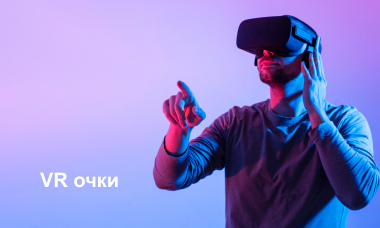
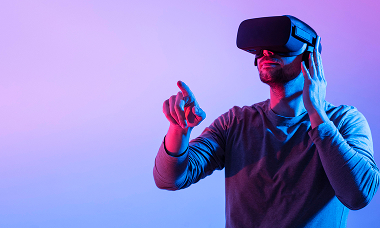
create service section

diff --git a/index.html b/index.html
@@ -61,27 +61,25 @@
         </div>
       </section>
       <section class="service">
-        <div class="container">
+        <div class="service__container">
           <h2 class="service__title">У нас есть всё для классного отдыха с друзьями!</h2>
           <ul class="service__list">
-            <li class="service__item">
-              <img class="service__item-img" src="/img/vr.jpg" width="380" height="228" alt="Vr-очки.">
+            <li class="service__item service__item-vr">
               <p class="service__item-text">VR очки</p>
             </li>
-            <li class="service__item">
-              <img class="service__item-img" src="/img/audio.jpg" width="380" height="228" alt="Аудио-система 5.1.">
+            <li class="service__item service__item-audio">
               <p class="service__item-text">Аудио-система 5.1 с отличным звуком</p>
             </li>
-            <li class="service__item">
-              <img class="service__item-img" src="/img/micro.jpg" width="380" height="228" alt="Караоке(4 микрофона).">
+            <li class="service__item service__item-karaoke">
               <p class="service__item-text">Караоке(4 микрофона)</p>
             </li>
-            <li class="service__item">
-              <img class="service__item-img" src="/img/netflix.jpg" width="380" height="228" alt="Кино-сервисы: Netflix, IVI, MegoGo, КиноПоиск, Okko.">
+            <li class="service__item service__item-games">
+              <p class="service__item-text">Настольные игры</p>
+            </li>
+            <li class="service__item service__item-films">
               <p class="service__item-text">Кино-сервисы: Netflix, IVI, MegoGo, КиноПоиск, Okko</p>
             </li>
-            <li class="service__item">
-              <img class="service__item-img" src="/img/sony.jpg" width="380" height="228" alt="Playstation.">
+            <li class="service__item service__item-playstation">
               <p class="service__item-text">Playstation 5</p>
             </li>
           </ul>

diff --git a/css/service.css b/css/service.css
@@ -1,0 +1,68 @@
+.service__container {
+  margin: 0 auto;
+  max-width: 1180px;
+}
+
+.service__title {
+  margin: 0 auto;
+  max-width: 880px;
+  font-weight: 700;
+  text-transform: uppercase;
+  font-size: 40px;
+  line-height: 50px;
+  text-align: center;
+  margin-bottom: 41px;
+}
+
+.service__list {
+  display: flex;
+  flex-direction: row;
+  flex-wrap: wrap;
+  justify-content: space-around;
+  gap: 20px;
+  max-height: 800px;
+}
+
+.service__item-vr {
+  background-image: url("../img/vr.jpg");
+}
+
+.service__item-games {
+  background-image: url("../img/games.jpg");
+}
+
+.service__item-audio {
+  background-image: url("../img/audio.jpg");
+}
+
+.service__item-karaoke {
+  background-image: url("../img/micro.jpg");
+}
+
+.service__item-films {
+  background-image: url("../img/netflix.jpg");
+}
+
+.service__item-playstation {
+  background-image: url("../img/sony.jpg");
+}
+
+.service__item-vr,
+.service__item-games,
+.service__item-audio,
+.service__item-karaoke,
+.service__item-films,
+.service__item-playstation {
+  width: 380px;
+  height: 228px;
+
+}
+
+.service__item-text {
+  color: #FFF;
+  font-weight: 700;
+  font-size: 22px;
+  line-height: 26px;
+  text-align: left;
+  padding: 166px 40px 20px 40px;
+}

diff --git a/css/start.css b/css/start.css
@@ -29,6 +29,18 @@
   filter: drop-shadow(0 -4px 15px rgba(0, 0, 0, 0.5));
 }
 
+.start__container::before {
+  content: "";
+  background-image: url("../img/img/down-icon.svg");
+  background-size: cover;
+  width: 97px;
+  height: 97px;
+  position: absolute;
+  right: 574px;
+  bottom: 90px;
+  z-index: 2;
+}
+
 .start__span-container {
   display: flex;
   flex-direction: row;

diff --git a/style.css b/style.css
@@ -52,6 +52,11 @@ ul {
   margin: 0;
 }
 
+li {
+  padding: 0;
+  margin: 0;
+}
+
 button {
   cursor: pointer;
   margin: 0;
